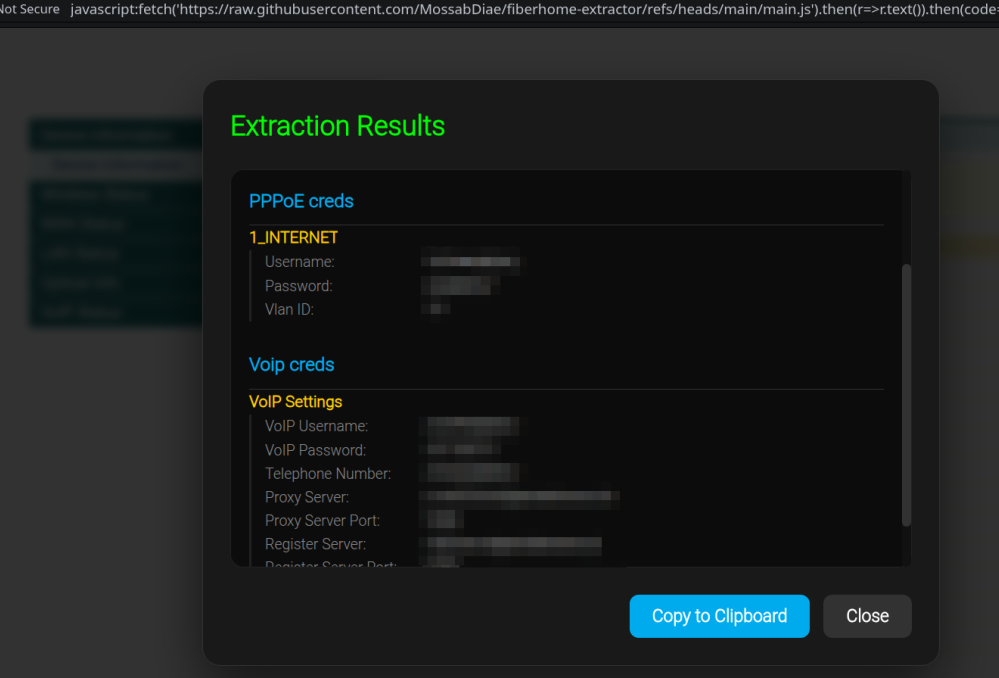
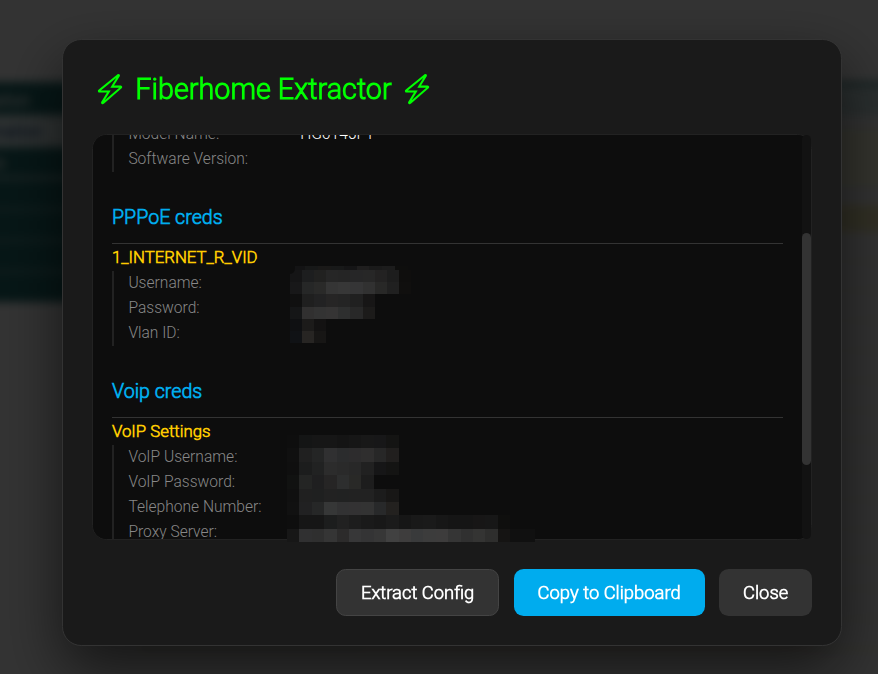
fix: UI tweaks
+ docs reflecting new UI

diff --git a/main.js b/main.js
@@ -106,7 +106,7 @@ if (voipResponse && voipResponse.voice_base) {
 
 // Beautiful print function
 function printResults(data) {
-    console.log("%c--- Extraction Results ---", "color: #00ff00; font-weight: bold; font-size: 1.2em;");
+    console.log("%c--- ⚡ Fiberhome Extractor ⚡ ---", "color: #00ff00; font-weight: bold; font-size: 1.2em;");
 
     for (const [group, items] of Object.entries(data)) {
         if (items.length === 0) continue;
@@ -181,7 +181,7 @@ function showPopup(data) {
 
     const header = document.createElement("div");
     header.style.marginBottom = "20px";
-    header.innerHTML = `<h2 style="margin:0; color:#00ff00; font-size:24px;">Extraction Results</h2>`;
+    header.innerHTML = `<h2 style="margin:0; color:#00ff00; font-size:24px;">⚡ Fiberhome Extractor ⚡</h2>`;
     modal.appendChild(header);
 
     const contentArea = document.createElement("div");
